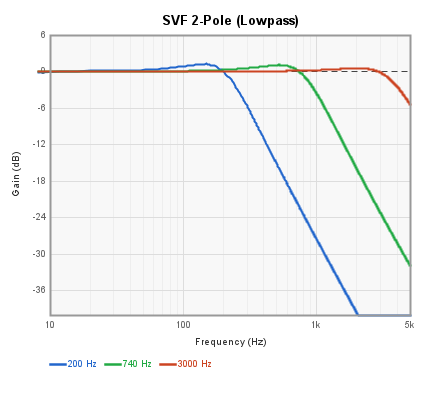
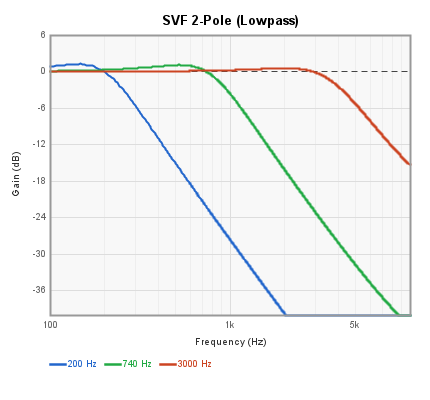
Add crossfade curve graph to CrossfadeAdj control panel, update filter doc plots
Add visual indicator showing both crossfade gain curves (Input 1 cyan,
Input 2 yellow) that updates in real time with midpoint and gain changes.
Update SVF filter documentation plots.

diff --git a/src/test/java/com/holycityaudio/SpinCAD/FilterDocTest.java b/src/test/java/com/holycityaudio/SpinCAD/FilterDocTest.java
@@ -140,7 +140,7 @@ public class FilterDocTest {
         if (freqAxis == null) return;
         writeFilterPlot(new File(docsDir, "filter-svf2p.png"),
             "SVF 2-Pole (Lowpass)", freqAxis, curves, labels, -40, 6,
-            DISPLAY_F_MIN, DISPLAY_F_MAX, new double[]{0, 6, -6});
+            100, 10000, new double[]{0, 6, -6});
         System.out.println("  wrote filter-svf2p.png");
     }
 
@@ -164,7 +164,7 @@ public class FilterDocTest {
         if (freqAxis == null) return;
         writeFilterPlot(new File(docsDir, "filter-svf2p-bp.png"),
             "SVF 2-Pole (Bandpass)", freqAxis, curves, labels, -40, 6,
-            DISPLAY_F_MIN, DISPLAY_F_MAX, new double[]{0, 6, -6});
+            100, 10000, new double[]{0, 6, -6});
         System.out.println("  wrote filter-svf2p-bp.png");
     }
 
@@ -188,7 +188,7 @@ public class FilterDocTest {
         if (freqAxis == null) return;
         writeFilterPlot(new File(docsDir, "filter-svf2p-hp.png"),
             "SVF 2-Pole (Highpass)", freqAxis, curves, labels, -40, 6,
-            DISPLAY_F_MIN, DISPLAY_F_MAX, new double[]{0, 6, -6});
+            100, 10000, new double[]{0, 6, -6});
         System.out.println("  wrote filter-svf2p-hp.png");
     }
 
@@ -215,7 +215,7 @@ public class FilterDocTest {
         if (freqAxis == null) return;
         writeFilterPlot(new File(docsDir, "filter-svf2p-q.png"),
             "SVF 2-Pole LP (Q variation at 1 kHz)", freqAxis, curves, labels, -40, 20,
-            DISPLAY_F_MIN, DISPLAY_F_MAX, new double[]{0, 6, -6},
+            100, 10000, new double[]{0, 6, -6},
             new String[]{COLORS[0], COLORS[1], COLORS[2], COLORS[3]});
         System.out.println("  wrote filter-svf2p-q.png");
     }
@@ -240,8 +240,8 @@ public class FilterDocTest {
         }
         if (freqAxis == null) return;
         writeFilterPlot(new File(docsDir, "filter-svf2padj.png"),
-            "SVF 2-Pole Adj (Lowpass)", freqAxis, curves, labels, -40, 6,
-            DISPLAY_F_MIN, DISPLAY_F_MAX, new double[]{0, 6, -6});
+            "SVF 2-Pole Adj (Lowpass)", freqAxis, curves, labels, -40, 12,
+            100, 10000, new double[]{0, 6, -6});
         System.out.println("  wrote filter-svf2padj.png");
     }
 
@@ -265,8 +265,8 @@ public class FilterDocTest {
         }
         if (freqAxis == null) return;
         writeFilterPlot(new File(docsDir, "filter-svf2padj-bp.png"),
-            "SVF 2-Pole Adj (Bandpass)", freqAxis, curves, labels, -40, 6,
-            DISPLAY_F_MIN, DISPLAY_F_MAX, new double[]{0, 6, -6});
+            "SVF 2-Pole Adj (Bandpass)", freqAxis, curves, labels, -40, 12,
+            100, 10000, new double[]{0, 6, -6});
         System.out.println("  wrote filter-svf2padj-bp.png");
     }
 
@@ -290,8 +290,8 @@ public class FilterDocTest {
         }
         if (freqAxis == null) return;
         writeFilterPlot(new File(docsDir, "filter-svf2padj-hp.png"),
-            "SVF 2-Pole Adj (Highpass)", freqAxis, curves, labels, -40, 6,
-            DISPLAY_F_MIN, DISPLAY_F_MAX, new double[]{0, 6, -6});
+            "SVF 2-Pole Adj (Highpass)", freqAxis, curves, labels, -40, 12,
+            100, 10000, new double[]{0, 6, -6});
         System.out.println("  wrote filter-svf2padj-hp.png");
     }
 
@@ -319,7 +319,7 @@ public class FilterDocTest {
         if (freqAxis == null) return;
         writeFilterPlot(new File(docsDir, "filter-svf2padj-q.png"),
             "SVF 2-Pole Adj LP (Q variation ~1 kHz)", freqAxis, curves, labels, -40, 20,
-            DISPLAY_F_MIN, DISPLAY_F_MAX, new double[]{0, 6, -6},
+            100, 10000, new double[]{0, 6, -6},
             new String[]{COLORS[0], COLORS[1], COLORS[2], COLORS[3]});
         System.out.println("  wrote filter-svf2padj-q.png");
     }
@@ -474,17 +474,21 @@ public class FilterDocTest {
 
     // === 6-Band EQ ===
     private void plot6BandEQ(File docsDir, File chirpWav) throws Exception {
-        double[] bandFreqs = {80, 160, 320, 640, 1280, 2560};
-        String[] bandLabels = {"80 Hz", "160 Hz", "320 Hz", "640 Hz", "1.3 kHz", "2.6 kHz"};
+        // Per-band gains matching the 3 composite cases
+        // Low boost: bands 0,1   Mid scoop: bands 2,3   High boost: bands 4,5
+        double[] bandGains = {0.5, 0.3, -0.4, -0.4, 0.3, 0.5};
+        // Color index into COLORS[] matching the composite curve each band belongs to
+        String[] bandColors = {COLORS[0], COLORS[0], COLORS[1], COLORS[1], COLORS[2], COLORS[2]};
 
-        // Simulate each band boosted individually (dotted envelopes)
+        // Simulate each non-zero band individually (dotted envelopes)
         double[][] bandCurves = new double[6][];
         double[] freqAxis = null;
         for (int band = 0; band < 6; band++) {
+            if (bandGains[band] == 0.0) continue;
             SixBandEQCADBlock block = new SixBandEQCADBlock(100, 100);
             block.setqLevel(1.2);
             for (int b = 0; b < 6; b++) block.seteqLevel(b, 0.0);
-            block.seteqLevel(band, 0.5);  // boost this band only
+            block.seteqLevel(band, bandGains[band]);
             short[] stereo = simulate(block, chirpWav, null, "Audio Output 1", null, tempDir);
             if (stereo == null) { System.err.println("  SKIP 6-Band EQ band " + band); continue; }
             double[] resp = computeFrequencyResponse(chirpWav, stereo);
@@ -529,7 +533,7 @@ public class FilterDocTest {
             "6-Band EQ", freqAxis, curves, labels, -12, 12,
             DISPLAY_F_MIN, DISPLAY_F_MAX, new double[]{0},
             new String[]{COLORS[0], COLORS[1], COLORS[2]},
-            bandCurves, bandLabels);
+            bandCurves, bandColors);
         System.out.println("  wrote filter-6bandeq.png");
     }
 
@@ -586,29 +590,19 @@ public class FilterDocTest {
             new String[]{COLORS[0], COLORS[1], COLORS[2]});
     }
 
-    /** Overload with dotted band envelope overlays. */
-    private void writeFilterPlot(File file, String title,
-            double[] freqAxis, double[][] curves, String[] labels,
-            double yMin, double yMax, double fMin, double fMax,
-            double[] refLines, String[] colors,
-            double[][] bandCurves, String[] bandLabels) throws IOException {
-        writeFilterPlot(file, title, freqAxis, curves, labels, yMin, yMax, fMin, fMax,
-            refLines, colors, bandCurves);
-    }
-
     private void writeFilterPlot(File file, String title,
             double[] freqAxis, double[][] curves, String[] labels,
             double yMin, double yMax, double fMin, double fMax,
             double[] refLines, String[] colors) throws IOException {
         writeFilterPlot(file, title, freqAxis, curves, labels, yMin, yMax, fMin, fMax,
-            refLines, colors, null);
+            refLines, colors, null, null);
     }
 
     private void writeFilterPlot(File file, String title,
             double[] freqAxis, double[][] curves, String[] labels,
             double yMin, double yMax, double fMin, double fMax,
             double[] refLines, String[] colors,
-            double[][] bandCurves) throws IOException {
+            double[][] bandCurves, String[] bandColorArr) throws IOException {
 
         // Trim data to display range
         int binMin = Math.max(1, (int)(fMin * FFT_SIZE / SAMPLE_RATE));
@@ -709,7 +703,6 @@ public class FilterDocTest {
 
         // Draw dotted band envelope curves (if provided)
         if (bandCurves != null) {
-            String[] bandColors = {"#88aadd", "#77bb77", "#dd7766", "#bb88cc", "#ccaa44", "#88bbcc"};
             Stroke dottedStroke = new BasicStroke(1.2f, BasicStroke.CAP_BUTT,
                 BasicStroke.JOIN_MITER, 10, new float[]{4, 4}, 0);
             for (int bi = 0; bi < bandCurves.length; bi++) {
@@ -729,7 +722,9 @@ public class FilterDocTest {
                     cnt++;
                 }
                 if (cnt > 1) {
-                    g.setColor(parseColor(bandColors[bi % bandColors.length]));
+                    String bc = (bandColorArr != null && bi < bandColorArr.length)
+                        ? bandColorArr[bi] : COLORS[bi % COLORS.length];
+                    g.setColor(parseColor(bc));
                     g.setStroke(dottedStroke);
                     g.drawPolyline(Arrays.copyOf(xPts, cnt), Arrays.copyOf(yPts, cnt), cnt);
                 }

diff --git a/src/com/holycityaudio/SpinCAD/CADBlocks/CrossfadeAdjControlPanel.java b/src/com/holycityaudio/SpinCAD/CADBlocks/CrossfadeAdjControlPanel.java
@@ -19,11 +19,15 @@
 
 package com.holycityaudio.SpinCAD.CADBlocks;
 
+import java.awt.Color;
+import java.awt.Dimension;
+import java.awt.Graphics;
 import java.awt.event.ActionEvent;
 import java.awt.event.ActionListener;
 
 import javax.swing.BoxLayout;
 import javax.swing.JFrame;
+import javax.swing.JPanel;
 import javax.swing.JSlider;
 import javax.swing.JTextField;
 import javax.swing.event.ChangeEvent;
@@ -40,6 +44,7 @@ class CrossfadeAdjControlPanel extends JFrame implements ChangeListener, ActionL
 	private JTextField gain1Field;
 	private FineControlSlider gain2Slider;
 	private JTextField gain2Field;
+	private CrossfadePanel graph;
 
 	private CrossfadeAdjCADBlock gCB;
 
@@ -64,6 +69,7 @@ class CrossfadeAdjControlPanel extends JFrame implements ChangeListener, ActionL
 					gCB.setMidpoint(val);
 					midpointSlider.setValue((int) Math.round(val * 100));
 					updateMidpointLabel();
+					graph.repaint();
 				} catch (NumberFormatException ex) {
 					updateMidpointLabel();
 				}
@@ -86,6 +92,7 @@ class CrossfadeAdjControlPanel extends JFrame implements ChangeListener, ActionL
 					gain1Slider.setValue(sliderVal);
 					gCB.setGain1(sliderVal);
 					updateGain1Label();
+					graph.repaint();
 				} catch (NumberFormatException ex) {
 					updateGain1Label();
 				}
@@ -108,11 +115,16 @@ class CrossfadeAdjControlPanel extends JFrame implements ChangeListener, ActionL
 					gain2Slider.setValue(sliderVal);
 					gCB.setGain2(sliderVal);
 					updateGain2Label();
+					graph.repaint();
 				} catch (NumberFormatException ex) {
 					updateGain2Label();
 				}
 			}
 		});
+
+		graph = new CrossfadePanel();
+		graph.setBackground(Color.BLACK);
+		graph.setPreferredSize(new Dimension(150, 120));
 
 		this.getContentPane().add(midpointField);
 		this.getContentPane().add(midpointSlider);
@@ -120,6 +132,7 @@ class CrossfadeAdjControlPanel extends JFrame implements ChangeListener, ActionL
 		this.getContentPane().add(gain1Slider);
 		this.getContentPane().add(gain2Field);
 		this.getContentPane().add(gain2Slider);
+		this.getContentPane().add(graph);
 
 		updateMidpointLabel();
 		updateGain1Label();
@@ -145,6 +158,7 @@ class CrossfadeAdjControlPanel extends JFrame implements ChangeListener, ActionL
 			gCB.setGain2(gain2Slider.getValue());
 			updateGain2Label();
 		}
+		graph.repaint();
 	}
 
 	private void updateMidpointLabel() {
@@ -157,5 +171,52 @@ class CrossfadeAdjControlPanel extends JFrame implements ChangeListener, ActionL
 
 	private void updateGain2Label() {
 		gain2Field.setText("Input 2 Gain " + String.format("%4.1f dB", 20 * Math.log10(gCB.getGain2())));
+	}
+
+	class CrossfadePanel extends JPanel {
+
+		private static final long serialVersionUID = 1L;
+
+		public CrossfadePanel() {
+			super();
+		}
+
+		protected void paintComponent(Graphics g) {
+			super.paintComponent(g);
+
+			double xScale = getWidth();
+			double yScale = getHeight();
+			double m = gCB.getMidpoint();
+			double g1 = gCB.getGain1();
+			double g2 = gCB.getGain2();
+
+			g.setColor(Color.BLACK);
+			g.fillRect(0, 0, getWidth(), getHeight());
+
+			for (double ctrl = 0; ctrl < 1.0; ctrl += 0.005) {
+				double gain1Curve, gain2Curve;
+
+				if (Math.abs(m - 0.5) < 0.001) {
+					// Linear crossfade
+					gain1Curve = (1.0 - ctrl) * g1;
+					gain2Curve = ctrl * g2;
+				} else if (ctrl < 0.5) {
+					// Low half
+					gain2Curve = ctrl * 2.0 * m * g2;
+					gain1Curve = (1.0 - ctrl * 2.0 * (1.0 - m)) * g1;
+				} else {
+					// High half
+					gain2Curve = (ctrl * 2.0 * (1.0 - m) + (2.0 * m - 1.0)) * g2;
+					gain1Curve = 2.0 * m * (1.0 - ctrl) * g1;
+				}
+
+				// Input 1: cyan, Input 2: yellow
+				int x = (int) (ctrl * xScale);
+				g.setColor(Color.CYAN);
+				g.drawRect(x, (int) ((1.0 - gain1Curve) * yScale), 1, 1);
+				g.setColor(Color.YELLOW);
+				g.drawRect(x, (int) ((1.0 - gain2Curve) * yScale), 1, 1);
+			}
+		}
 	}
 }
